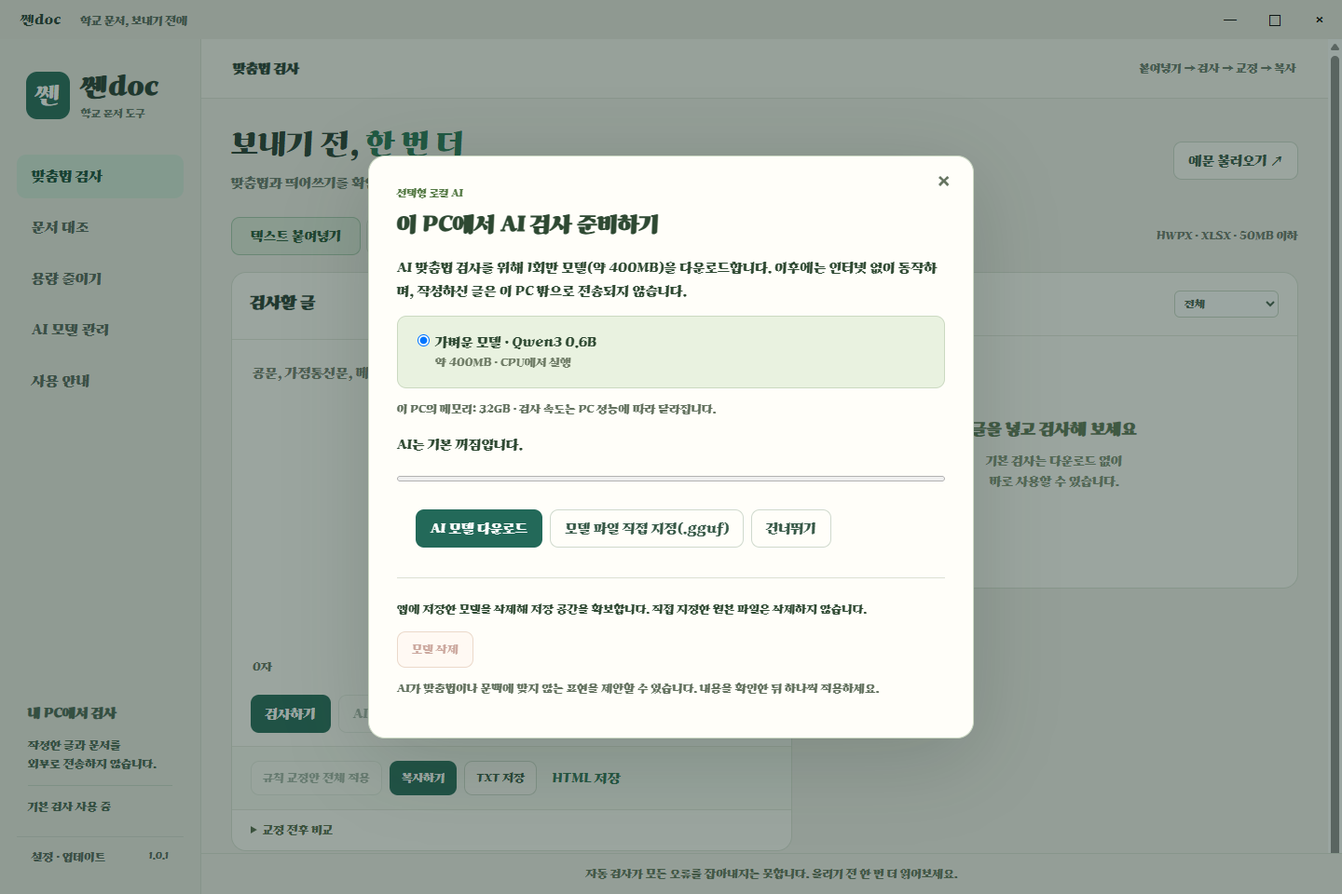
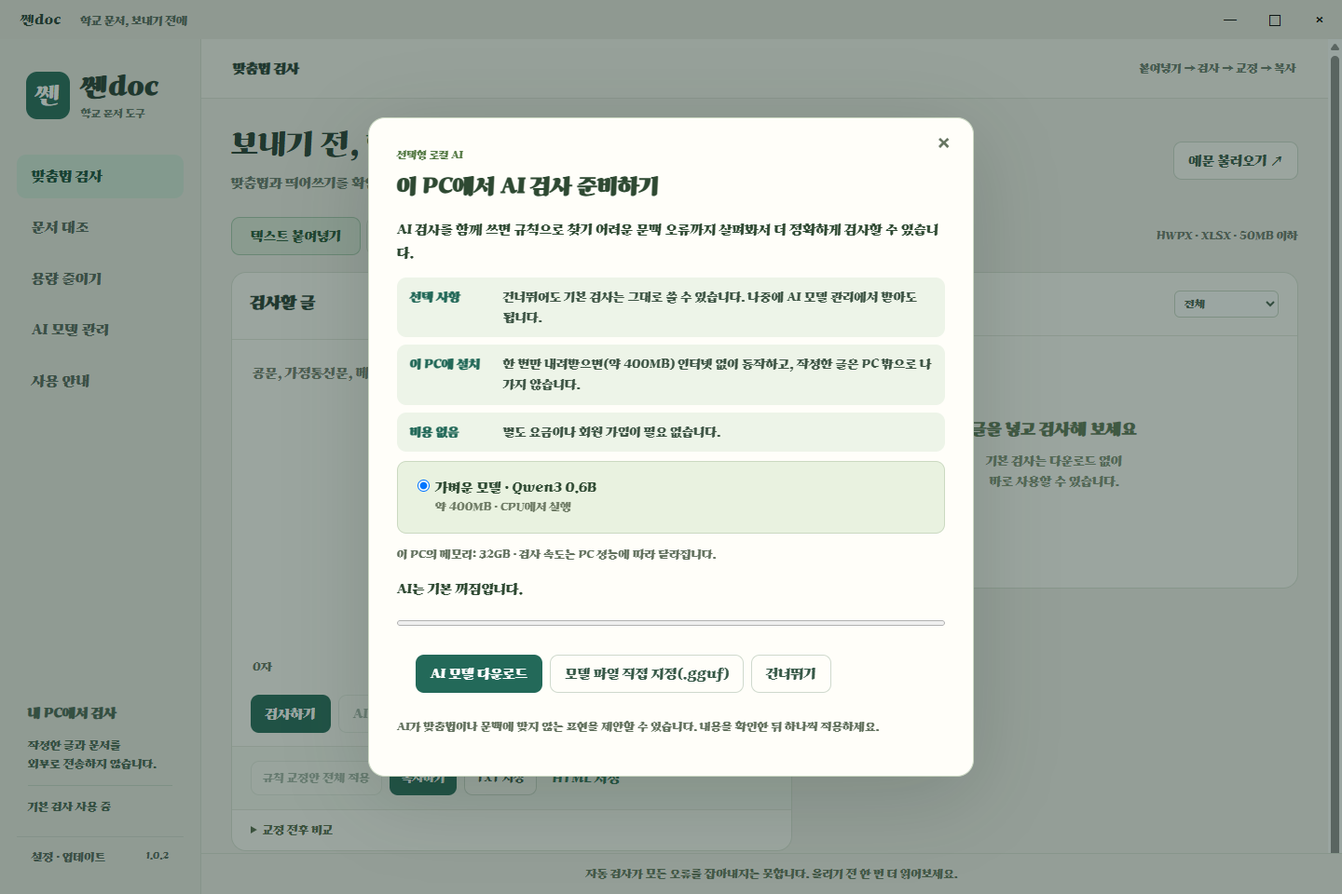
Offer the optional local AI model on first launch

Changed region(s): [[0.25, 0.125, 0.75, 0.6875], [0.25, 0.7188, 0.75, 0.875], [0.0938, 0.9375, 0.125, 0.9688]]

diff --git a/app/styles.css b/app/styles.css
@@ -1,3 +1,3 @@
-@font-face{font-family:Ghana;src:url('../assets/Ghanachocolate.ttf')}:root{--rail-build:"d5d587015e21"}*{box-sizing:border-box}body{margin:0;background:#f2f0eb;color:#243b32;font:14px Ghana,'Malgun Gothic',sans-serif}button,input,select,textarea{font:inherit}button{cursor:pointer}button:disabled{opacity:.45;cursor:not-allowed}[hidden]{display:none!important}.titlebar{height:42px;display:flex;align-items:center;justify-content:space-between;padding-left:22px;background:#e9e8e1;-webkit-app-region:drag}.titlebar small{margin-left:18px;color:#55695d}.titlebar button{height:42px;width:48px;border:0;background:transparent;-webkit-app-region:no-drag}.titlebar button:hover{background:#dbe4dc}.shell{display:grid;grid-template-columns:216px 1fr;height:calc(100vh - 42px)}.sidebar{padding:30px 18px 18px;background:#ebece5;border-right:1px solid #d9dfd4;display:flex;flex-direction:column}.brand{display:flex;gap:12px;align-items:center;margin:5px 10px 38px}.brand-mark{background:#236959;color:#fff;border-radius:12px;padding:10px;font-size:25px}.brand strong{font-size:27px}.brand small{display:block;font-size:11px;color:#607468;margin-top:5px}nav{display:grid;gap:8px}.nav-item{text-align:left;background:none;border:0;border-radius:10px;padding:14px 16px;color:#53665b;font-size:15px}.nav-item:hover{background:#dfe7dd}.nav-item.active{background:#d4e9dc;color:#174d39}.privacy{margin-top:auto;padding:20px 12px;color:#476452;font-size:12px;line-height:1.8}.privacy strong{font-size:14px}.privacy span{display:block;border-top:1px solid #ccd7cc;padding-top:12px}.update{font-size:12px;border-top:1px solid #d6dcd2;border-radius:0}.update small{float:right}main{overflow:auto;min-width:0}.page-header{height:64px;display:flex;align-items:center;justify-content:space-between;padding:0 34px;border-bottom:1px solid #dfe2d9;background:#f7f6f1}.page-header span{font-size:12px;color:#68796c}.page{padding:30px 32px 16px;max-width:1800px;margin:auto}.heading{display:flex;justify-content:space-between;align-items:center;margin-bottom:24px}h1{font-size:31px;margin:0 0 12px;font-weight:400}h1 em{color:#237454;font-style:normal}h2{font-size:17px;margin:0}h3{font-size:14px}p{line-height:1.7}.heading p{margin:0;color:#68786c}.button{border:1px solid transparent;border-radius:9px;padding:11px 15px;white-space:nowrap}.primary{background:#236959;color:white}.primary:hover{background:#19533e}.secondary{background:#fffef9;border-color:#cfd9cd;color:#365847}.text-button{border:0;background:transparent;color:#2c7155;padding:8px}.button:active{transform:translateY(1px)}button:focus-visible,textarea:focus-visible,select:focus-visible{outline:3px solid #62a68a;outline-offset:2px}.input-tabs{display:flex;gap:6px;align-items:center;margin-bottom:18px}.input-tabs span{margin-left:auto;color:#6c786d;font-size:12px}.tab{border:1px solid #d2dacd;background:transparent;padding:11px 20px;border-radius:9px;color:#506852}.tab.active{background:#e0ebde;border-color:#a6c8ad;color:#245436}.editor-layout{display:grid;grid-template-columns:minmax(390px,1.15fr) minmax(320px,1fr);gap:20px;align-items:start}.editor-layout.document-mode{grid-template-columns:220px minmax(310px,1.2fr) minmax(250px,1fr);gap:14px}.panel{background:#fffefa;border:1px solid #dce2d6;border-radius:16px;overflow:hidden}.panel-head{display:flex;align-items:center;justify-content:space-between;gap:8px;padding:19px 20px;border-bottom:1px solid #e5e7de}.panel-head select{font-size:11px;padding:6px;border:1px solid #ccd8c8;border-radius:6px;color:#45604e;background:#fff}.panel-head small{display:block;margin-top:6px;color:#62785d;font-size:11px}#text-input{display:block;width:100%;min-height:290px;height:35vh;resize:vertical;padding:22px;border:0;background:transparent;line-height:1.95;color:#203e30;font-family:Ghana,'Malgun Gothic',sans-serif;font-size:16px}#text-input::placeholder{color:#748071;font-size:14px}#text-input[readonly]{background:#f1f2ec}.editor-meta{display:flex;justify-content:space-between;padding:8px 22px;color:#64735f;font-size:12px}.actions{display:flex;flex-wrap:wrap;gap:8px;padding:14px 20px}.output-actions{display:flex;flex-wrap:wrap;gap:8px;padding:15px 20px;border-top:1px solid #e6e8df;background:#f8faf3}.output-actions .button{font-size:12px;padding:10px 12px}.small{font-size:12px}.muted{color:#62715e}#edit-hint{padding:0 20px}.empty{padding:90px 24px;text-align:center;color:#819177}.empty strong{font-size:17px;color:#5b7554}.empty p{font-size:13px}#issues{max-height:48vh;overflow:auto;min-height:230px}.issue{width:100%;border:0;border-bottom:1px solid #e6eadd;background:transparent;padding:15px 20px;text-align:left;color:#2d4d37}.issue:hover,.issue.selected{background:#edf4e8}.issue .badge{display:inline-block;font-size:10px;padding:4px 7px;border-radius:5px;background:#e6efda;color:#466033;margin-bottom:9px}.issue.ai .badge{background:#dcebf0;color:#345e69}.issue.dictionary .badge,.issue.context .badge{background:#f2ecdb;color:#765f29}.issue strong{display:block;font-size:15px;font-weight:400}.issue del{color:#977244;margin-right:6px}.issue small{display:block;font-size:11px;color:#697b60;margin-top:6px}#issue-detail{padding:20px;background:#edf3e5;border-top:1px solid #cbd9c0;line-height:1.8}#issue-detail p{font-size:13px}#issue-detail .actions{padding:8px 0}.suggestion{border:1px solid #91b583;background:white;border-radius:7px;padding:8px 12px;color:#38682b;margin:5px}footer{padding:22px 0 5px;font-size:12px;color:#62745b;text-align:center}#notice{padding:13px 18px;background:#e7eedf;border-radius:9px;margin-bottom:16px;white-space:pre-wrap;line-height:1.7}details{padding:14px 20px;border-top:1px solid #e6e8df}summary{cursor:pointer;color:#53694b;font-size:12px}.comparison{display:grid;grid-template-columns:1fr 1fr;gap:16px}.comparison pre{white-space:pre-wrap;word-break:break-word;font:13px/1.8 Ghana,'Malgun Gothic',sans-serif;color:#65735c}#highlights{padding:15px 22px;white-space:pre-wrap;line-height:1.9;border-top:1px solid #e0e6d8;max-height:160px;overflow:auto;font-size:13px}mark{background:#f6e3b4;color:#473d26;border-bottom:2px solid #ad822e}dialog{border:1px solid #cbd8c3;border-radius:18px;background:#fffef9;color:#2e4932;padding:30px;width:min(650px,90vw);max-height:88vh;box-shadow:0 20px 90px #23392733}dialog::backdrop{background:#1c352c70}dialog h2{font-size:23px;margin:12px 0 20px}dialog>p{font-size:14px;line-height:1.8}.dialog-close{position:absolute;right:17px;top:12px;background:none;border:0;font-size:24px;color:#64735f}.eyebrow{font-size:11px;color:#557a45}.model-option{display:block;padding:16px;border:1px solid #cbd9c1;border-radius:10px;margin:10px 0;line-height:1.7}.model-option:has(input:checked){background:#e9f2e0}.model-option small{display:block;margin-left:24px;color:#6e7b65;font-size:12px}progress{width:100%;height:12px;accent-color:#35784b}.danger-zone{margin-top:18px;border-top:1px solid #dce1d4;padding-top:12px;font-size:12px}.danger{background:#fff4eb;color:#8b3e2c;border-color:#d2ac91}#model-path{word-break:break-all}.sr-only{position:absolute;width:1px;height:1px;overflow:hidden;clip:rect(0,0,0,0)}#document-panel>.small{padding:0 16px}#document-panel>.button{margin:15px;width:calc(100% - 30px)}#document-name{font-size:12px;word-break:break-all}#document-blocks{max-height:53vh;overflow:auto}.doc-block{display:block;width:100%;border:0;border-bottom:1px solid #e3e8d8;padding:12px;text-align:left;background:none;color:#45643a}.doc-block.active{background:#e4eedb}.doc-block small{display:block;color:#627457;font-size:10px;margin-bottom:6px}.doc-block span{display:-webkit-box;-webkit-line-clamp:2;-webkit-box-orient:vertical;overflow:hidden;line-height:1.6;font-size:12px}.doc-block b{display:inline-block;font-size:10px;color:#975b22;margin-top:7px}.app-copy{margin:18px 0 0;font-size:12px;color:#52675d}.license-link{border:0;background:none;padding:0;font-size:12px;color:#236959;text-decoration:underline;text-underline-offset:3px}.license-text{white-space:pre-wrap;word-break:break-word;max-height:260px;overflow:auto;margin:14px 0 0;padding:14px;border:1px solid #dce1d4;border-radius:8px;background:#f8faf3;font:12px/1.75 Ghana,'Malgun Gothic',sans-serif;color:#3d5444}#guide-dialog li{line-height:1.9;margin:10px 0}@media(max-width:1250px){.page{padding:24px 20px}.shell{grid-template-columns:185px 1fr}.sidebar{padding-left:12px;padding-right:12px}.editor-layout.document-mode{grid-template-columns:175px minmax(300px,1fr)}.document-mode .issues-panel{grid-column:2}.document-mode #document-panel{grid-row:span 2}}
+@font-face{font-family:Ghana;src:url('../assets/Ghanachocolate.ttf')}:root{--rail-build:"d5d587015e21"}*{box-sizing:border-box}body{margin:0;background:#f2f0eb;color:#243b32;font:14px Ghana,'Malgun Gothic',sans-serif}button,input,select,textarea{font:inherit}button{cursor:pointer}button:disabled{opacity:.45;cursor:not-allowed}[hidden]{display:none!important}.titlebar{height:42px;display:flex;align-items:center;justify-content:space-between;padding-left:22px;background:#e9e8e1;-webkit-app-region:drag}.titlebar small{margin-left:18px;color:#55695d}.titlebar button{height:42px;width:48px;border:0;background:transparent;-webkit-app-region:no-drag}.titlebar button:hover{background:#dbe4dc}.shell{display:grid;grid-template-columns:216px 1fr;height:calc(100vh - 42px)}.sidebar{padding:30px 18px 18px;background:#ebece5;border-right:1px solid #d9dfd4;display:flex;flex-direction:column}.brand{display:flex;gap:12px;align-items:center;margin:5px 10px 38px}.brand-mark{background:#236959;color:#fff;border-radius:12px;padding:10px;font-size:25px}.brand strong{font-size:27px}.brand small{display:block;font-size:11px;color:#607468;margin-top:5px}nav{display:grid;gap:8px}.nav-item{text-align:left;background:none;border:0;border-radius:10px;padding:14px 16px;color:#53665b;font-size:15px}.nav-item:hover{background:#dfe7dd}.nav-item.active{background:#d4e9dc;color:#174d39}.privacy{margin-top:auto;padding:20px 12px;color:#476452;font-size:12px;line-height:1.8}.privacy strong{font-size:14px}.privacy span{display:block;border-top:1px solid #ccd7cc;padding-top:12px}.update{font-size:12px;border-top:1px solid #d6dcd2;border-radius:0}.update small{float:right}main{overflow:auto;min-width:0}.page-header{height:64px;display:flex;align-items:center;justify-content:space-between;padding:0 34px;border-bottom:1px solid #dfe2d9;background:#f7f6f1}.page-header span{font-size:12px;color:#68796c}.page{padding:30px 32px 16px;max-width:1800px;margin:auto}.heading{display:flex;justify-content:space-between;align-items:center;margin-bottom:24px}h1{font-size:31px;margin:0 0 12px;font-weight:400}h1 em{color:#237454;font-style:normal}h2{font-size:17px;margin:0}h3{font-size:14px}p{line-height:1.7}.heading p{margin:0;color:#68786c}.button{border:1px solid transparent;border-radius:9px;padding:11px 15px;white-space:nowrap}.primary{background:#236959;color:white}.primary:hover{background:#19533e}.secondary{background:#fffef9;border-color:#cfd9cd;color:#365847}.text-button{border:0;background:transparent;color:#2c7155;padding:8px}.button:active{transform:translateY(1px)}button:focus-visible,textarea:focus-visible,select:focus-visible{outline:3px solid #62a68a;outline-offset:2px}.input-tabs{display:flex;gap:6px;align-items:center;margin-bottom:18px}.input-tabs span{margin-left:auto;color:#6c786d;font-size:12px}.tab{border:1px solid #d2dacd;background:transparent;padding:11px 20px;border-radius:9px;color:#506852}.tab.active{background:#e0ebde;border-color:#a6c8ad;color:#245436}.editor-layout{display:grid;grid-template-columns:minmax(390px,1.15fr) minmax(320px,1fr);gap:20px;align-items:start}.editor-layout.document-mode{grid-template-columns:220px minmax(310px,1.2fr) minmax(250px,1fr);gap:14px}.panel{background:#fffefa;border:1px solid #dce2d6;border-radius:16px;overflow:hidden}.panel-head{display:flex;align-items:center;justify-content:space-between;gap:8px;padding:19px 20px;border-bottom:1px solid #e5e7de}.panel-head select{font-size:11px;padding:6px;border:1px solid #ccd8c8;border-radius:6px;color:#45604e;background:#fff}.panel-head small{display:block;margin-top:6px;color:#62785d;font-size:11px}#text-input{display:block;width:100%;min-height:290px;height:35vh;resize:vertical;padding:22px;border:0;background:transparent;line-height:1.95;color:#203e30;font-family:Ghana,'Malgun Gothic',sans-serif;font-size:16px}#text-input::placeholder{color:#748071;font-size:14px}#text-input[readonly]{background:#f1f2ec}.editor-meta{display:flex;justify-content:space-between;padding:8px 22px;color:#64735f;font-size:12px}.actions{display:flex;flex-wrap:wrap;gap:8px;padding:14px 20px}.output-actions{display:flex;flex-wrap:wrap;gap:8px;padding:15px 20px;border-top:1px solid #e6e8df;background:#f8faf3}.output-actions .button{font-size:12px;padding:10px 12px}.small{font-size:12px}.muted{color:#62715e}#edit-hint{padding:0 20px}.empty{padding:90px 24px;text-align:center;color:#819177}.empty strong{font-size:17px;color:#5b7554}.empty p{font-size:13px}#issues{max-height:48vh;overflow:auto;min-height:230px}.issue{width:100%;border:0;border-bottom:1px solid #e6eadd;background:transparent;padding:15px 20px;text-align:left;color:#2d4d37}.issue:hover,.issue.selected{background:#edf4e8}.issue .badge{display:inline-block;font-size:10px;padding:4px 7px;border-radius:5px;background:#e6efda;color:#466033;margin-bottom:9px}.issue.ai .badge{background:#dcebf0;color:#345e69}.issue.dictionary .badge,.issue.context .badge{background:#f2ecdb;color:#765f29}.issue strong{display:block;font-size:15px;font-weight:400}.issue del{color:#977244;margin-right:6px}.issue small{display:block;font-size:11px;color:#697b60;margin-top:6px}#issue-detail{padding:20px;background:#edf3e5;border-top:1px solid #cbd9c0;line-height:1.8}#issue-detail p{font-size:13px}#issue-detail .actions{padding:8px 0}.suggestion{border:1px solid #91b583;background:white;border-radius:7px;padding:8px 12px;color:#38682b;margin:5px}footer{padding:22px 0 5px;font-size:12px;color:#62745b;text-align:center}#notice{padding:13px 18px;background:#e7eedf;border-radius:9px;margin-bottom:16px;white-space:pre-wrap;line-height:1.7}details{padding:14px 20px;border-top:1px solid #e6e8df}summary{cursor:pointer;color:#53694b;font-size:12px}.comparison{display:grid;grid-template-columns:1fr 1fr;gap:16px}.comparison pre{white-space:pre-wrap;word-break:break-word;font:13px/1.8 Ghana,'Malgun Gothic',sans-serif;color:#65735c}#highlights{padding:15px 22px;white-space:pre-wrap;line-height:1.9;border-top:1px solid #e0e6d8;max-height:160px;overflow:auto;font-size:13px}mark{background:#f6e3b4;color:#473d26;border-bottom:2px solid #ad822e}dialog{border:1px solid #cbd8c3;border-radius:18px;background:#fffef9;color:#2e4932;padding:30px;width:min(650px,90vw);max-height:88vh;box-shadow:0 20px 90px #23392733}dialog::backdrop{background:#1c352c70}dialog h2{font-size:23px;margin:12px 0 20px}dialog>p{font-size:14px;line-height:1.8}.dialog-close{position:absolute;right:17px;top:12px;background:none;border:0;font-size:24px;color:#64735f}.eyebrow{font-size:11px;color:#557a45}.model-points{list-style:none;margin:0 0 6px;padding:0;display:grid;gap:8px}.model-points li{display:grid;grid-template-columns:92px 1fr;gap:8px;padding:10px 14px;border-radius:10px;background:#edf4e8;font-size:13px;line-height:1.7;color:#3d5444}.model-points strong{color:#236959}.model-option{display:block;padding:16px;border:1px solid #cbd9c1;border-radius:10px;margin:10px 0;line-height:1.7}.model-option:has(input:checked){background:#e9f2e0}.model-option small{display:block;margin-left:24px;color:#6e7b65;font-size:12px}progress{width:100%;height:12px;accent-color:#35784b}.danger-zone{margin-top:18px;border-top:1px solid #dce1d4;padding-top:12px;font-size:12px}.danger{background:#fff4eb;color:#8b3e2c;border-color:#d2ac91}#model-path{word-break:break-all}.sr-only{position:absolute;width:1px;height:1px;overflow:hidden;clip:rect(0,0,0,0)}#document-panel>.small{padding:0 16px}#document-panel>.button{margin:15px;width:calc(100% - 30px)}#document-name{font-size:12px;word-break:break-all}#document-blocks{max-height:53vh;overflow:auto}.doc-block{display:block;width:100%;border:0;border-bottom:1px solid #e3e8d8;padding:12px;text-align:left;background:none;color:#45643a}.doc-block.active{background:#e4eedb}.doc-block small{display:block;color:#627457;font-size:10px;margin-bottom:6px}.doc-block span{display:-webkit-box;-webkit-line-clamp:2;-webkit-box-orient:vertical;overflow:hidden;line-height:1.6;font-size:12px}.doc-block b{display:inline-block;font-size:10px;color:#975b22;margin-top:7px}.app-copy{margin:18px 0 0;font-size:12px;color:#52675d}.license-link{border:0;background:none;padding:0;font-size:12px;color:#236959;text-decoration:underline;text-underline-offset:3px}.license-text{white-space:pre-wrap;word-break:break-word;max-height:260px;overflow:auto;margin:14px 0 0;padding:14px;border:1px solid #dce1d4;border-radius:8px;background:#f8faf3;font:12px/1.75 Ghana,'Malgun Gothic',sans-serif;color:#3d5444}#guide-dialog li{line-height:1.9;margin:10px 0}@media(max-width:1250px){.page{padding:24px 20px}.shell{grid-template-columns:185px 1fr}.sidebar{padding-left:12px;padding-right:12px}.editor-layout.document-mode{grid-template-columns:175px minmax(300px,1fr)}.document-mode .issues-panel{grid-column:2}.document-mode #document-panel{grid-row:span 2}}
 
 main{padding-bottom:46px}footer{position:fixed;bottom:0;left:216px;right:0;z-index:2;background:#f2f0eb;border-top:1px solid #dce2d6;padding:14px 12px}@media(max-width:1250px){footer{left:185px}}

diff --git a/app/renderer.js b/app/renderer.js
@@ -12,7 +12,7 @@ function setBusy(value){busy=value;for(const id of ['scan','mode-text','mode-doc
 function applyIssues(changes){if(busy||$('text-input').readOnly)return;let text=$('text-input').value;const old=text;let end=text.length;for(const i of [...changes].sort((a,b)=>b.start-a.start)){if(i.end>end||text.slice(i.start,i.end)!==i.original||typeof i.suggestion!=='string')throw Error('본문이 바뀌었습니다. 다시 검사해 주세요.');text=text.slice(0,i.start)+i.suggestion+text.slice(i.end);end=i.start;}if(text===old)return;
  // Keep the other AI suggestions: the rule rescan does not run the model again.
  const kept=issues.filter(i=>i.source==='ai'&&!changes.some(c=>c.id===i.id||c.start<i.end&&i.start<c.end)).map(i=>{const delta=changes.filter(c=>c.end<=i.start).reduce((n,c)=>n+c.suggestion.length-(c.end-c.start),0);return {...i,start:i.start+delta,end:i.end+delta};}).filter(i=>text.slice(i.start,i.end)===i.original);
- undo.push(old);$('text-input').value=text;changed();void inspect(false,kept);}
+ undo.push(old);$('text-input').value=text;changed();void inspect(kept);}
 function renderIssues(){const filter=$('issue-filter').value,shown=issues.filter(i=>filter==='all'||i.source===filter);$('issue-count').textContent=issues.length;$('apply-all').disabled=busy||$('text-input').readOnly||!issues.some(i=>i.auto&&i.source==='rule');
  $('issues').innerHTML=shown.length?shown.map(i=>`<button class="issue ${i.source} ${selected===i.id?'selected':''}" data-issue="${esc(i.id)}"><span class="badge">${esc(i.category)}</span><strong>${i.suggestion?`<del>${esc(i.original)}</del> → ${esc(i.suggestion)}`:esc(i.original)}</strong><small>${i.source==='dictionary'?'고유명사나 활용형일 수 있어요':i.source==='ai'?'확인 후 하나씩 적용':'표현을 눌러 이유를 확인하세요'}</small></button>`).join(''):'<div class="empty"><strong>이 목록에 표시할 항목이 없습니다</strong><p>자동 검사가 모든 오류를 잡아내지는 못합니다.<br>한 번 더 읽어보세요.</p></div>';
  $('issues').querySelectorAll('[data-issue]').forEach(b=>b.onclick=()=>{selected=b.dataset.issue;renderIssues();detail();});if(!issues.some(i=>i.id===selected))$('issue-detail').hidden=true;
@@ -21,9 +21,9 @@ function renderIssues(){const filter=$('issue-filter').value,shown=issues.filter
 function detail(){const i=issues.find(i=>i.id===selected);if(!i)return;$('issue-detail').hidden=false;$('issue-detail').innerHTML=`<h2>${esc(i.category)}</h2><p>${esc(i.reason)}</p>${i.example?`<p class="small">예: ${esc(i.example)}</p>`:''}${i.source==='dictionary'?(i.suggestions||[]).map((word,n)=>`<button class="suggestion" data-candidate="${n}">${esc(word)} 적용</button>`).join(''):''}<div class="actions">${i.suggestion?'<button id="apply-one" class="button primary">적용</button>':''}<button id="ignore-one" class="button secondary">무시</button>${i.source==='dictionary'?'<button id="add-word" class="button secondary">내 사전에 추가</button>':''}</div>`;
  if($('apply-one')){$('apply-one').disabled=$('text-input').readOnly;$('apply-one').onclick=action(()=>applyIssues([i]));}$('ignore-one').onclick=()=>{issues=issues.filter(x=>x.id!==i.id);selected=null;renderIssues();};
  $('issue-detail').querySelectorAll('[data-candidate]').forEach(b=>{b.disabled=$('text-input').readOnly;b.onclick=action(()=>applyIssues([{...i,suggestion:i.suggestions[Number(b.dataset.candidate)]}]));});
- if($('add-word'))$('add-word').onclick=action(async()=>{checked(await api.addWord(i.original));await inspect(false);});$('text-input').focus();$('text-input').setSelectionRange(i.start,i.end);
+ if($('add-word'))$('add-word').onclick=action(async()=>{checked(await api.addWord(i.original));await inspect();});$('text-input').focus();$('text-input').setSelectionRange(i.start,i.end);
 }
-async function inspect(first=true,kept=[]){if(busy)return;const text=$('text-input').value;if(!text.trim())return notice('검사할 글을 넣어 주세요.');setBusy(true);const started=performance.now();try{const r=checked(await api.scan(text));issues=[...r.issues,...kept.filter(k=>!r.issues.some(p=>typeof p.suggestion==='string'&&p.start<k.end&&k.start<p.end))].sort((a,b)=>a.start-b.start);selected=null;$('time').textContent=`기본 검사 ${Math.round(performance.now()-started)}ms`;renderIssues();notice(`${issues.filter(i=>i.source==='rule').length}개 교정 후보 · ${issues.filter(i=>i.source!=='rule').length}개 직접 확인 항목`);}finally{setBusy(false);}if(first&&!settings.aiNoticeSeen){settings=checked(await api.saveSettings({aiNoticeSeen:true}));await openModels();}}
+async function inspect(kept=[]){if(busy)return;const text=$('text-input').value;if(!text.trim())return notice('검사할 글을 넣어 주세요.');setBusy(true);const started=performance.now();try{const r=checked(await api.scan(text));issues=[...r.issues,...kept.filter(k=>!r.issues.some(p=>typeof p.suggestion==='string'&&p.start<k.end&&k.start<p.end))].sort((a,b)=>a.start-b.start);selected=null;$('time').textContent=`기본 검사 ${Math.round(performance.now()-started)}ms`;renderIssues();notice(`${issues.filter(i=>i.source==='rule').length}개 교정 후보 · ${issues.filter(i=>i.source!=='rule').length}개 직접 확인 항목`);}finally{setBusy(false);}}
 $('scan').onclick=action(()=>inspect());$('apply-all').onclick=action(()=>applyIssues(issues.filter(i=>i.auto&&i.source==='rule')));$('issue-filter').onchange=renderIssues;
 $('undo').onclick=()=>{if(!undo.length)return;$('text-input').value=undo.pop();changed();invalidate();};
 $('copy').onclick=action(async()=>{checked(await api.copy($('text-input').value));notice('현재 글을 복사했습니다.');});
@@ -38,14 +38,14 @@ function documentMode(){mode='document';$('document-panel').hidden=false;documen
 async function openDoc(){if(hasUnsaved())return notice('아직 저장하지 않은 문서 수정 내용이 있습니다. 교정본을 저장한 뒤 다른 문서를 불러오세요.');const r=checked(await api.openDocument());if(r.canceled)return;doc=r;edits=new Map();savedEdits=new Map();block=null;documentMode();$('document-name').textContent=r.name;$('document-warning').textContent=(r.warnings||[]).join('\n');renderBlocks();const first=r.blocks.findIndex(b=>b.issues.some(i=>i.auto));await selectBlock(first<0?0:first);notice(`문서 전체에서 ${r.blocks.reduce((n,b)=>n+b.issues.filter(i=>i.auto).length,0)}개 규칙 교정 후보를 찾았습니다. 문단·셀을 선택해 확인하세요.`);}
 $('mode-document').onclick=action(async()=>{if(doc){documentMode();await selectBlock(lastBlock);}else await openDoc();});$('open-document').onclick=action(openDoc);
 function renderBlocks(){if(!doc)return;$('document-blocks').innerHTML=doc.blocks.map((b,n)=>`<button class="doc-block ${block===n?'active':''}" data-block="${n}" ${busy?'disabled':''}><small>${esc(b.location)}</small><span>${esc(edits.get(n)??b.text)}</span>${edits.has(n)?`<b>${savedEdits.get(n)===edits.get(n)?'교정본에 저장됨':'수정됨 · 저장 전'}</b>`:b.issues.length?`<b>확인 ${b.issues.length}개</b>`:''}</button>`).join('');$('document-blocks').querySelectorAll('[data-block]').forEach(b=>b.onclick=action(()=>selectBlock(Number(b.dataset.block))));}
-async function selectBlock(index){if(busy)return;setBusy(true);try{const r=checked(await api.prepareBlock(index));block=index;lastBlock=index;doc.blocks[index].editable=r.editable;doc.blocks[index].editOriginal=r.text;setText(edits.get(index)??r.text);before=r.text;$('before').textContent=before;$('block-location').textContent=doc.blocks[index].location;$('edit-hint').hidden=false;$('edit-hint').textContent=r.hint;}finally{setBusy(false);}renderBlocks();await inspect(false);}
+async function selectBlock(index){if(busy)return;setBusy(true);try{const r=checked(await api.prepareBlock(index));block=index;lastBlock=index;doc.blocks[index].editable=r.editable;doc.blocks[index].editOriginal=r.text;setText(edits.get(index)??r.text);before=r.text;$('before').textContent=before;$('block-location').textContent=doc.blocks[index].location;$('edit-hint').hidden=false;$('edit-hint').textContent=r.hint;}finally{setBusy(false);}renderBlocks();await inspect();}
 $('save-document').onclick=action(async()=>{setBusy(true);try{const r=checked(await api.saveDocument([...edits].map(([index,text])=>({index,text}))));if(r.ok){savedEdits=new Map(edits);renderBlocks();notice(`교정본을 저장했습니다: ${r.path}${r.recalculate?'\n엑셀에서 열어 수식을 다시 계산하세요.':''}${r.stalePreview?'\n한글에서 열어 미리보기를 갱신하세요.':''}\n원본은 그대로 보존했습니다.`);}}finally{setBusy(false);}});
 async function openModels(){renderModel(checked(await api.modelInfo()));if(!$('model-dialog').open)$('model-dialog').showModal();}
 const mb=n=>`${(n/1024**2).toFixed(1)}MB`;
 function renderModel(info){model=info;const working=['downloading','verifying','importing'].includes(info.phase);$('model-badge').textContent=info.installed?'로컬 AI 준비됨':'기본 검사 사용 중';$('ai-scan').disabled=busy||!info.installed;
  if(!$('model-options').children.length)$('model-options').innerHTML=info.models.filter(m=>m.enabled).map(m=>`<label class="model-option"><input type="radio" name="model" value="${m.id}" ${m.id===info.recommended?'checked':''}> ${esc(m.name)}<small>약 400MB · CPU에서 실행</small></label>`).join('');
  $('memory-info').textContent=`이 PC의 메모리: ${info.memoryGB}GB · 검사 속도는 PC 성능에 따라 달라집니다.`;$('model-status').textContent=info.message;$('model-progress').value=info.percent||0;$('download-details').textContent=info.total?`${mb(info.received)} / ${mb(info.total)} · 남은 용량 ${mb(Math.max(0,info.total-info.received))}${info.eta?` · 약 ${Math.ceil(info.eta/60)}분 남음`:''}`:'';
- $('model-path').textContent=info.installed?`저장 위치: ${info.installed.path}`:'';$('model-download').disabled=working||Boolean(info.installed)||busy;$('model-download').textContent=info.phase==='paused'?'다운로드 재개':info.phase==='error'?'다운로드 재시도':'AI 모델 다운로드';$('model-pause').hidden=info.phase!=='downloading';$('model-import').disabled=working||busy;$('model-delete').disabled=working||busy||(!info.installed&&!['paused','error'].includes(info.phase));
+ $('model-path').textContent=info.installed?`저장 위치: ${info.installed.path}`:'';$('model-download').disabled=working||Boolean(info.installed)||busy;$('model-download').textContent=info.phase==='paused'?'다운로드 재개':info.phase==='error'?'다운로드 재시도':'AI 모델 다운로드';$('model-pause').hidden=info.phase!=='downloading';$('model-import').disabled=working||busy;$('model-delete').disabled=working||busy||(!info.installed&&!['paused','error'].includes(info.phase));document.querySelector('#model-dialog .danger-zone').hidden=!info.installed&&!['paused','error'].includes(info.phase);
 }
 $('open-models').onclick=action(openModels);api.onModel(renderModel);api.onNavigate(()=>void openModels());
 $('model-download').onclick=action(async()=>{const id=document.querySelector('[name=model]:checked').value;renderModel(checked(await api.downloadModel(id)));});$('model-pause').onclick=action(async()=>renderModel(checked(await api.pauseModel())));
@@ -57,5 +57,5 @@ document.querySelectorAll('[data-route]').forEach(b=>b.onclick=action(()=>api.na
 $('open-guide').onclick=()=>$('guide-dialog').showModal();for(const id of ['minimize','maximize','close'])$(id).onclick=()=>api[id]();
 function update(s){$('app-version').textContent=s.current;$('update-message').textContent=`현재 ${s.current} · ${s.message}`;$('update-progress').value=s.progress||0;$('update-download').hidden=s.phase!=='available'||s.mode!=='installed';$('update-install').hidden=s.phase!=='ready';}
 $('open-update').onclick=action(async()=>{update(checked(await api.updateState()));$('update-dialog').showModal();});$('update-check').onclick=action(async()=>update(checked(await api.checkUpdate())));$('update-download').onclick=action(async()=>update(checked(await api.downloadUpdate())));$('update-install').onclick=action(()=>api.installUpdate());$('update-release').onclick=action(()=>api.openRelease());$('license-toggle').onclick=action(async()=>{const box=$('license-text');if(!box.textContent)box.textContent=checked(await api.licenseText())||'이용약관을 불러오지 못했습니다. 설치 폴더의 LICENSE.txt를 확인해 주세요.';box.hidden=!box.hidden;$('license-toggle').textContent=box.hidden?'이용약관 보기':'이용약관 닫기';$('license-toggle').setAttribute('aria-expanded',String(!box.hidden));});api.onUpdate(update);
-void action(async()=>{settings=checked(await api.settings());renderModel(checked(await api.modelInfo()));update(checked(await api.updateState()));document.documentElement.dataset.build='bdeba563895a';document.documentElement.dataset.ready='true';})();
+void action(async()=>{settings=checked(await api.settings());renderModel(checked(await api.modelInfo()));update(checked(await api.updateState()));if(!settings.aiNoticeSeen&&!model.installed){settings=checked(await api.saveSettings({aiNoticeSeen:true}));await openModels();}document.documentElement.dataset.build='bdeba563895a';document.documentElement.dataset.ready='true';})();
 })();

diff --git a/app/index.html b/app/index.html
@@ -9,7 +9,7 @@
 <section class="panel editor-panel"><div class="panel-head"><div><h2 id="editor-heading">검사할 글</h2><small id="block-location"></small></div><button class="text-button" id="clipboard">클립보드에서 가져오기</button></div><label for="text-input" class="sr-only">검사할 글</label><textarea id="text-input" maxlength="100000" spellcheck="false" placeholder="공문, 가정통신문, 메신저 글을 붙여 넣으세요."></textarea><div class="editor-meta"><span id="char-count">0자</span><span id="time"></span></div><p id="edit-hint" class="small muted" hidden></p><div class="actions"><button class="button primary" id="scan">검사하기</button><button class="button secondary" id="ai-scan" disabled>AI로 추가 검사</button><button class="button secondary" id="ai-cancel" hidden>AI 검사 중지</button><button class="text-button" id="undo" disabled>실행 취소</button></div><div class="output-actions"><button class="button secondary" id="apply-all" disabled>규칙 교정안 전체 적용</button><button class="button primary" id="copy">복사하기</button><button class="button secondary" id="save-text">TXT 저장</button><button class="text-button" id="save-html">HTML 저장</button></div><details id="comparison"><summary>교정 전후 비교</summary><div class="comparison"><div><h3>교정 전</h3><pre id="before"></pre></div><div><h3>현재 글</h3><pre id="after"></pre></div></div></details><div id="highlights" aria-label="검사 위치 미리보기" hidden></div></section>
 <section class="panel issues-panel"><div class="panel-head"><h2>확인할 표현 <span id="issue-count">0</span></h2><select id="issue-filter" aria-label="검사 결과 분류"><option value="all">전체</option><option value="rule">맞춤법·띄어쓰기</option><option value="context">확인 필요</option><option value="dictionary">사전 확인</option><option value="ai">AI 제안</option></select></div><div id="issues"><div class="empty"><strong>글을 넣고 검사해 보세요</strong><p>기본 검사는 다운로드 없이<br>바로 사용할 수 있습니다.</p></div></div><div id="issue-detail" hidden></div></section></div>
 <footer>자동 검사가 모든 오류를 잡아내지는 못합니다. 올리기 전 한 번 더 읽어보세요.</footer></section></main></div>
-<dialog id="model-dialog" aria-labelledby="model-title"><button class="dialog-close" data-close="model-dialog" aria-label="닫기">×</button><span class="eyebrow">선택형 로컬 AI</span><h2 id="model-title">이 PC에서 AI 검사 준비하기</h2><p>AI 맞춤법 검사를 위해 1회만 모델(약 400MB)을 다운로드합니다. 이후에는 인터넷 없이 동작하며, 작성하신 글은 이 PC 밖으로 전송되지 않습니다.</p><div id="model-options"></div><p id="memory-info" class="small muted"></p><p id="model-status" role="status"></p><progress id="model-progress" max="100" value="0" aria-label="모델 다운로드 진행률"></progress><p id="download-details" class="small"></p><p id="model-path" class="small muted"></p><div class="actions"><button class="button primary" id="model-download">AI 모델 다운로드</button><button class="button secondary" id="model-pause" hidden>일시정지</button><button class="button secondary" id="model-import">모델 파일 직접 지정(.gguf)</button><button class="button secondary" id="model-skip">건너뛰기</button></div><div class="danger-zone"><p>앱에 저장한 모델을 삭제해 저장 공간을 확보합니다. 직접 지정한 원본 파일은 삭제하지 않습니다.</p><button class="button danger" id="model-delete" disabled>모델 삭제</button></div><p class="small muted">AI가 맞춤법이나 문맥에 맞지 않는 표현을 제안할 수 있습니다. 내용을 확인한 뒤 하나씩 적용하세요.</p></dialog>
+<dialog id="model-dialog" aria-labelledby="model-title"><button class="dialog-close" data-close="model-dialog" aria-label="닫기">×</button><span class="eyebrow">선택형 로컬 AI</span><h2 id="model-title">이 PC에서 AI 검사 준비하기</h2><p>AI 검사를 함께 쓰면 규칙으로 찾기 어려운 문맥 오류까지 살펴봐서 더 정확하게 검사할 수 있습니다.</p><ul class="model-points"><li><strong>선택 사항</strong><span>건너뛰어도 기본 검사는 그대로 쓸 수 있습니다. 나중에 AI 모델 관리에서 받아도 됩니다.</span></li><li><strong>이 PC에 설치</strong><span>한 번만 내려받으면(약 400MB) 인터넷 없이 동작하고, 작성한 글은 PC 밖으로 나가지 않습니다.</span></li><li><strong>비용 없음</strong><span>별도 요금이나 회원 가입이 필요 없습니다.</span></li></ul><div id="model-options"></div><p id="memory-info" class="small muted"></p><p id="model-status" role="status"></p><progress id="model-progress" max="100" value="0" aria-label="모델 다운로드 진행률"></progress><p id="download-details" class="small"></p><p id="model-path" class="small muted"></p><div class="actions"><button class="button primary" id="model-download">AI 모델 다운로드</button><button class="button secondary" id="model-pause" hidden>일시정지</button><button class="button secondary" id="model-import">모델 파일 직접 지정(.gguf)</button><button class="button secondary" id="model-skip">건너뛰기</button></div><div class="danger-zone"><p>앱에 저장한 모델을 삭제해 저장 공간을 확보합니다. 직접 지정한 원본 파일은 삭제하지 않습니다.</p><button class="button danger" id="model-delete" disabled>모델 삭제</button></div><p class="small muted">AI가 맞춤법이나 문맥에 맞지 않는 표현을 제안할 수 있습니다. 내용을 확인한 뒤 하나씩 적용하세요.</p></dialog>
 <dialog id="delete-dialog"><h2>앱에 저장한 모델을 삭제할까요?</h2><p>AI 검사를 다시 사용하려면 모델을 다운로드하거나 직접 지정해야 합니다. 기본 검사는 그대로 사용할 수 있습니다.</p><div class="actions"><button class="button secondary" data-close="delete-dialog">돌아가기</button><button class="button danger" id="confirm-delete">삭제하기</button></div></dialog>
 <dialog id="guide-dialog"><button class="dialog-close" data-close="guide-dialog" aria-label="닫기">×</button><h2>쎈doc 사용 안내</h2><ol><li>텍스트를 붙여 넣거나 HWPX·XLSX 문서를 불러옵니다.</li><li>검사하기를 누르고 항목을 선택해 이유와 예문을 확인합니다.</li><li>규칙 교정안은 한꺼번에 적용할 수 있습니다. 적용한 뒤 문맥에 맞는지 확인하세요. AI·사전 후보는 하나씩 확인하고 적용하세요.</li><li>문서에서는 문단·셀별로 교정한 뒤 교정본 저장을 누릅니다. 원본은 덮어쓰지 않습니다.</li><li>수식·필드·보호된 셀·복잡한 문단은 원본 프로그램에서 수정하세요. 구형 HWP·XLS·PDF 및 이미지 속 글자는 지원하지 않습니다.</li></ol><p>사전은 빈도 목록이므로 고유명사·활용형·학교 용어가 빠져 있거나 비표준 표현을 포함할 수 있습니다. 맞는 단어는 내 사전에 추가할 수 있습니다.</p><p>AI 모델 삭제·직접 지정은 AI 모델 관리에서 할 수 있습니다. 인터넷은 모델 다운로드와 업데이트에만 사용합니다.</p></dialog>
 <dialog id="update-dialog"><button class="dialog-close" data-close="update-dialog" aria-label="닫기">×</button><h2>설정 · 업데이트</h2><p id="update-message"></p><progress id="update-progress" value="0" max="100"></progress><div class="actions"><button class="button primary" id="update-check">새 버전 확인</button><button class="button secondary" id="update-download" hidden>업데이트 받기</button><button class="button primary" id="update-install" hidden>재시작하여 설치</button><button class="button secondary" id="update-release">배포 페이지 열기</button></div><p class="app-copy">© 2026 상명초 김승현, 등촌중 김형훈 · <button class="license-link" id="license-toggle" aria-expanded="false" aria-controls="license-text">이용약관 보기</button></p><pre id="license-text" class="license-text" hidden></pre><p class="small muted">쎈doc · 제작 HooniKim<br>업데이트 확인 때는 버전 정보만 주고받습니다. 검사 내용은 보내지 않습니다.</p></dialog>

diff --git a/README.md b/README.md
@@ -17,7 +17,7 @@ Windows 10/11 x64에서 설치형 `SsenDoc-Setup-1.0.2.exe`를 실행하거나, 
 
 AI 맞춤법 검사는 최초 1회 모델 다운로드(약 400MB)가 필요합니다. 규칙 기반 검사는 다운로드 없이 바로 사용 가능합니다.
 
-처음 맞춤법 검사를 실행하면 다운로드 안내를 표시합니다. **건너뛰기**를 눌러 기본 검사만 사용할 수 있습니다. AI 모델 관리에서 다운로드·일시정지·재개·재시도·삭제·GGUF 파일 직접 지정을 할 수 있습니다. 다운로드한 파일은 SHA-256으로 검증합니다. 앱 데이터 폴더의 `models/`에 저장되며, 직접 지정한 파일도 복사해서 사용합니다. 모델 삭제 시 직접 지정한 원본 파일은 보존합니다.
+앱을 처음 실행하면 AI 모델 다운로드 안내를 표시합니다. 선택 사항이며 별도 비용은 없습니다. **건너뛰기**를 눌러 기본 검사만 사용할 수 있습니다. AI 모델 관리에서 다운로드·일시정지·재개·재시도·삭제·GGUF 파일 직접 지정을 할 수 있습니다. 다운로드한 파일은 SHA-256으로 검증합니다. 앱 데이터 폴더의 `models/`에 저장되며, 직접 지정한 파일도 복사해서 사용합니다. 모델 삭제 시 직접 지정한 원본 파일은 보존합니다.
 
 기본 모델은 Qwen3 0.6B Q4_K_M(396,705,472바이트, Apache-2.0)입니다. CPU로 실행하며, AI 결과는 사용자가 항목별로 적용해야 합니다. 앱에서 제공하는 AI 모델은 Qwen 한 가지입니다. 모델은 설치 파일에 포함하지 않습니다.
 

diff --git a/CHANGELOG.md b/CHANGELOG.md
@@ -1,5 +1,10 @@
 # 변경 이력
 
+## 다음 버전 (미배포)
+
+- 앱을 처음 실행하면 AI 모델 다운로드 안내가 바로 나옵니다. 지금까지는 처음 검사할 때 안내가 떴습니다. AI 모델은 선택 사항이고, 이 PC에 설치되며, 별도 비용이 없다는 점을 안내 창에 표시합니다.
+- 모델이 없을 때는 안내 창에서 쓸 수 없는 '모델 삭제' 영역을 숨깁니다.
+
 ## 1.0.2 — 2026-10-12
 
 **이용약관**
